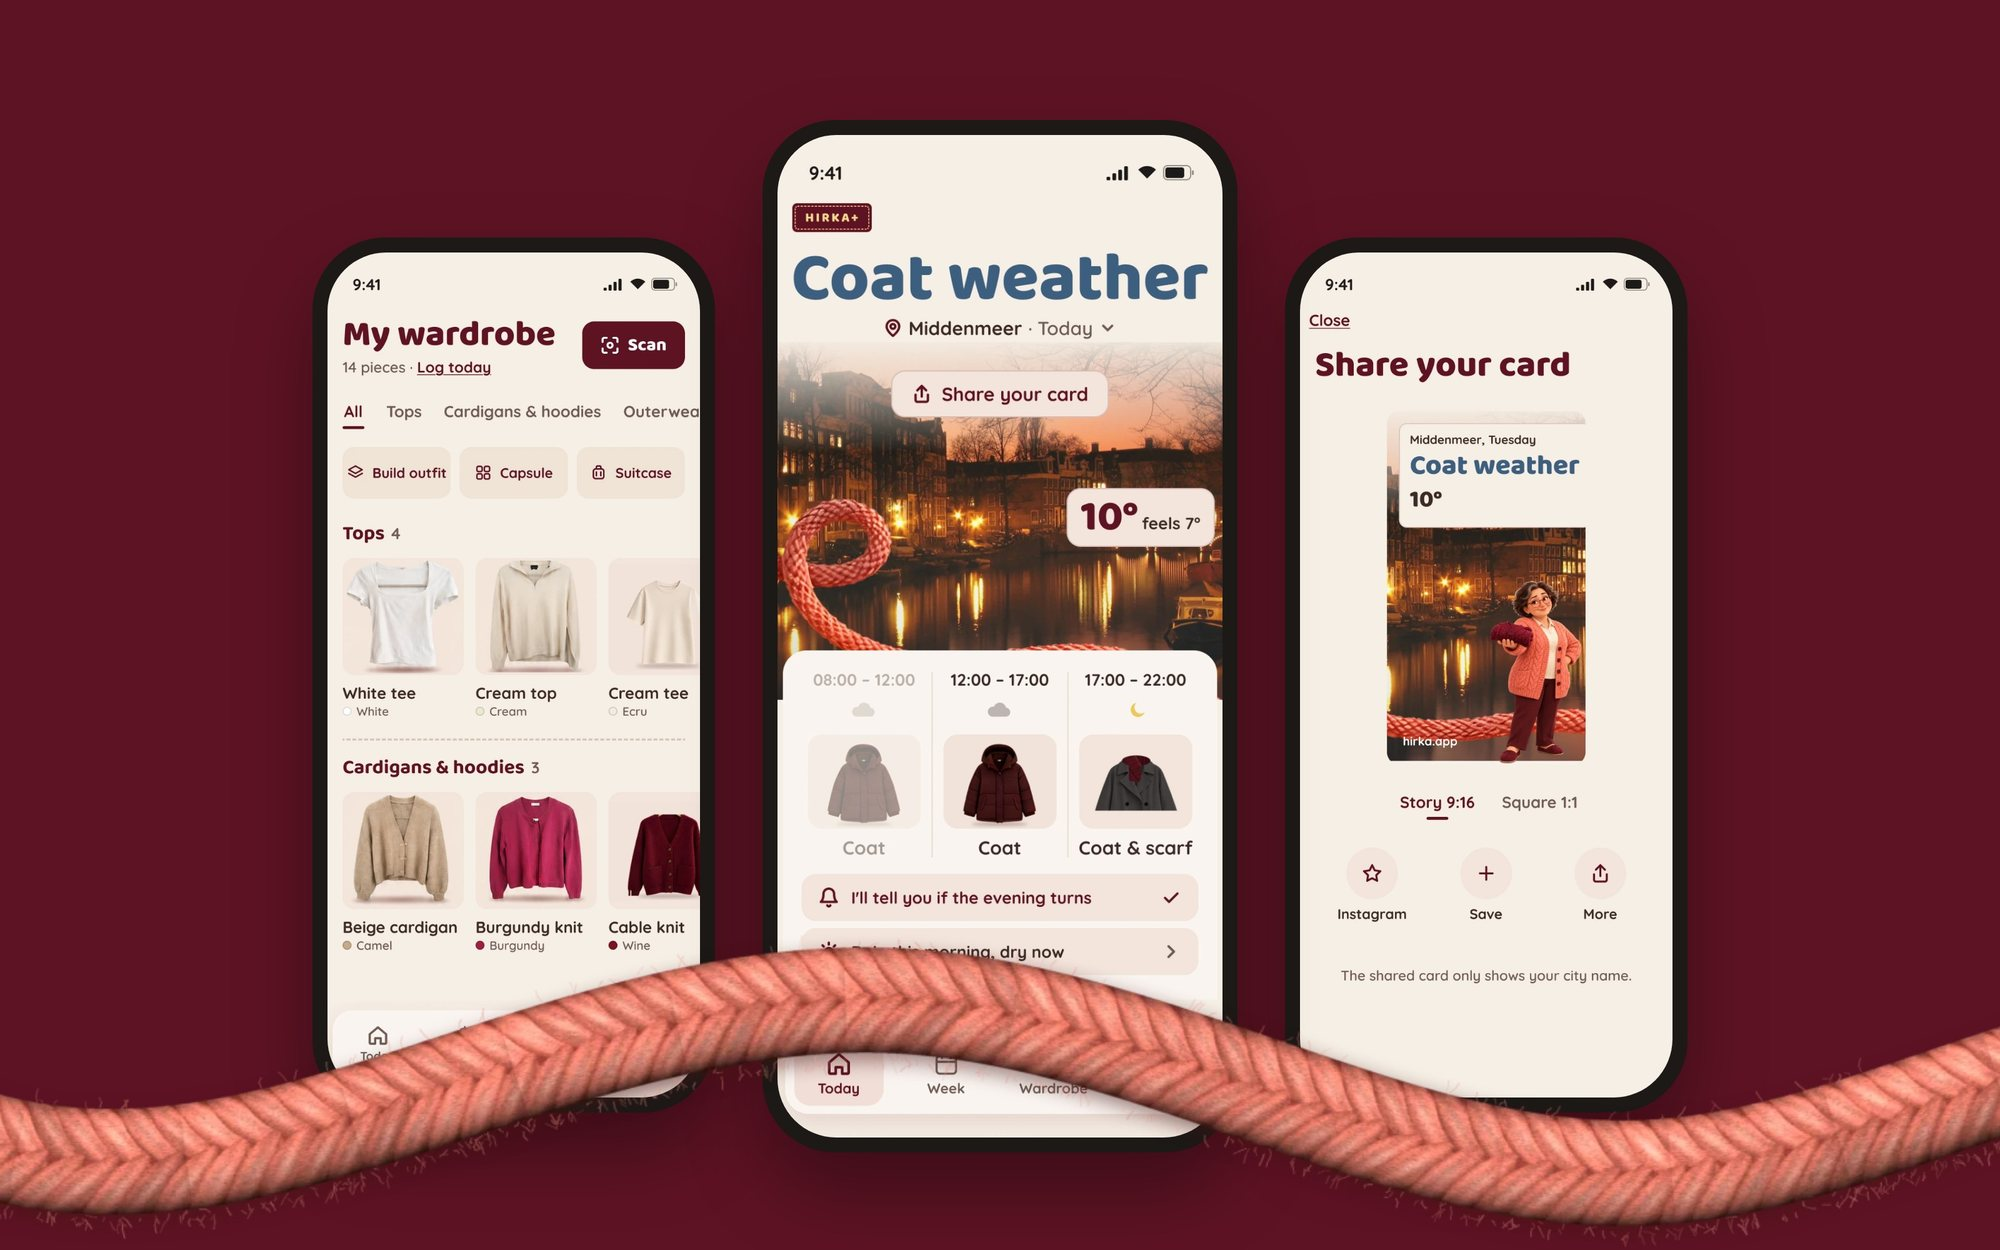
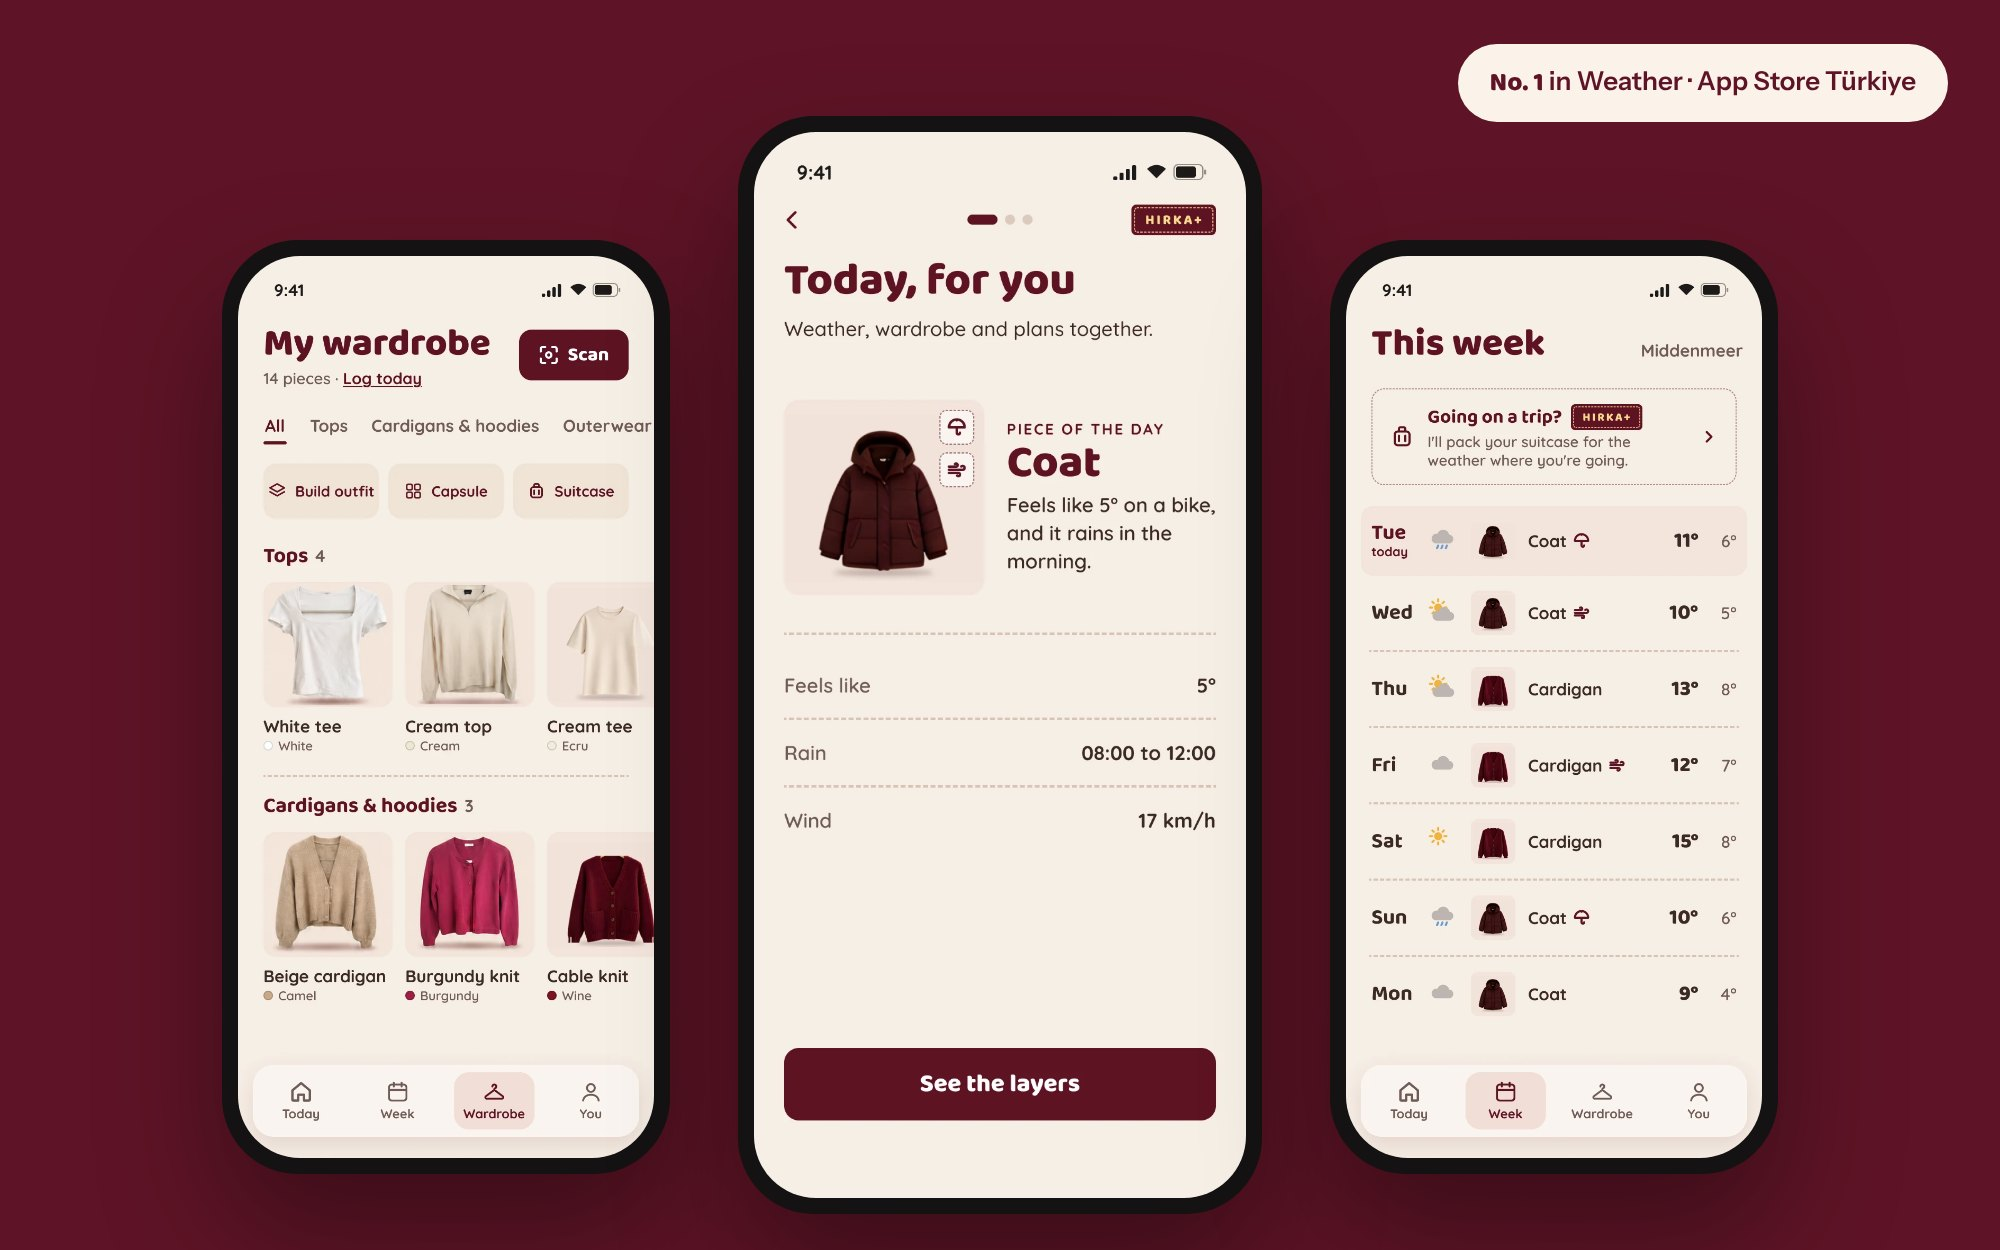
HIRKA: rope-free cover images

diff --git a/index.html b/index.html
@@ -2633,14 +2633,14 @@ footer span { font-size: 0.78rem; color: var(--text-muted); }
   margin-bottom: 48px;
 }
 .project-image.project-image--hirka {
-  aspect-ratio: 16/9;
+  aspect-ratio: 16/10;
   background: #5e1426;
   border-radius: 20px;
   overflow: hidden;
 }
 .project-image.project-image--hirka img {
   object-fit: cover;
-  object-position: center 40%;
+  object-position: center;
 }
 
 </style>
@@ -2731,7 +2731,7 @@ footer span { font-size: 0.78rem; color: var(--text-muted); }
 
     <a class="project-card project-card--hirka reveal" href="hirka-case-study.html" target="_blank" rel="noopener noreferrer">
       <div class="project-image project-image--hirka">
-        <img src="images/projects/hirka/cover-card.jpg" alt="HIRKA app screens: My wardrobe, Coat weather and Share your card" width="2000" height="1250" loading="lazy">
+        <img src="images/projects/hirka/cover-card.jpg" alt="HIRKA app screens: My wardrobe, Today for you and This week" width="2000" height="1250" loading="lazy">
       </div>
       <div class="project-info">
         <h4 class="project-name">HIRKA: From a Viral Reel to #1 in Weather</h4>

diff --git a/hirka-case-study.html b/hirka-case-study.html
@@ -491,7 +491,7 @@ blockquote {
         </div>
       </div>
       <figure class="hero-cover reveal">
-        <img src="images/projects/hirka/cover.jpg" alt="Three HIRKA screens on a burgundy background: My wardrobe, Coat weather and Share your card, with the coral knitted rope signature" width="2000" height="1250">
+        <img src="images/projects/hirka/cover.jpg" alt="Three HIRKA screens on a burgundy background: My wardrobe, Today for you and This week" width="2000" height="1250">
       </figure>
     </div>
   </header>
